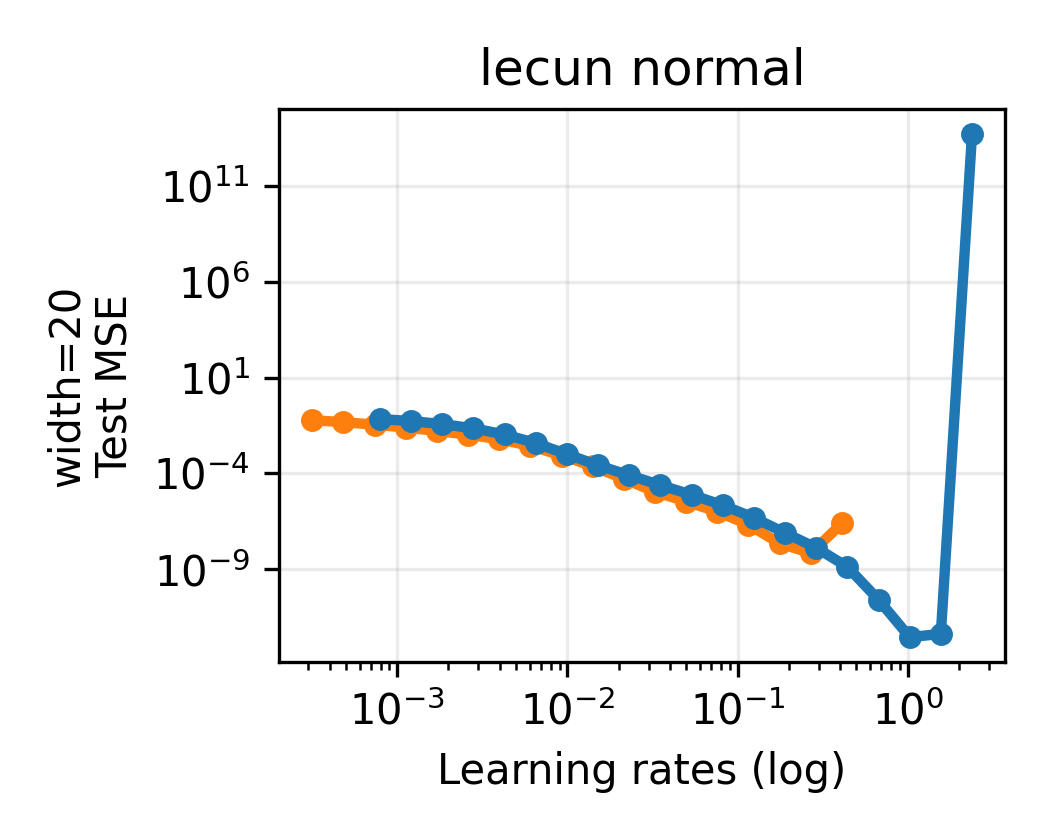
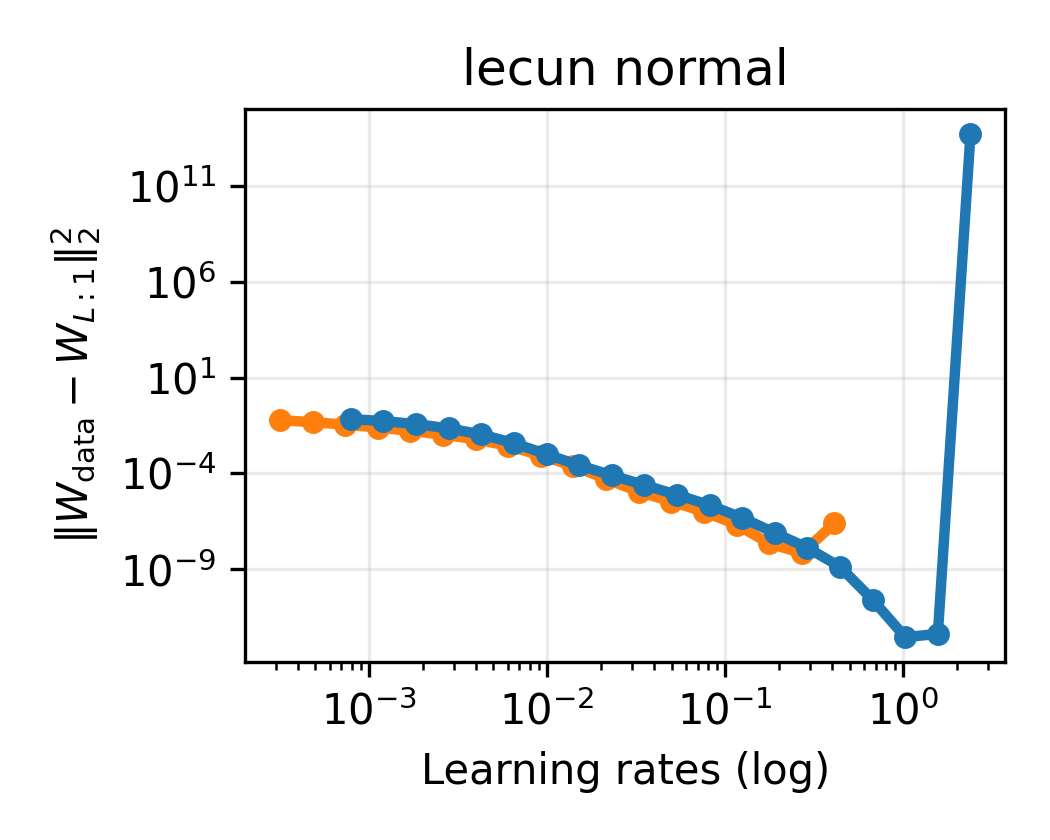
.

diff --git a/Figure2/figure2.py b/Figure2/figure2.py
@@ -739,7 +739,8 @@ for r, width in enumerate(widths_order):
         if r == 0:
             ax.set_title(init_name.replace("_", " "))
         if c == 0:
-            ax.set_ylabel(f"width={width}\nTest MSE")
+            ax.set_ylabel(r"$\|W_{\mathrm{data}} - W_{L:1}\|_2^2$")
+           # ax.set_ylabel(f"width={width}\nTest MSE")
         if r == len(widths_order) - 1:
             ax.set_xlabel("Training steps")
 
@@ -817,7 +818,8 @@ for r, width in enumerate(widths_order):
         if r == 0:
             ax.set_title(init_name.replace("_", " "))
         if c == 0:
-            ax.set_ylabel(f"width={width}\nTest MSE")
+            ax.set_ylabel(r"$\|W_{\mathrm{data}} - W_{L:1}\|_2^2$")
+            #ax.set_ylabel(f"width={width}\nTest MSE")
         if r == len(widths_order) - 1:
             ax.set_xlabel("Learning rates (log)")
 
@@ -877,7 +879,7 @@ for c, init_name in enumerate(inits_order):
     ax.grid(True, alpha=0.25)
     ax.axvline(x=20, linestyle='dashed', color='grey')
 
-axes[0].set_ylabel("Best Test MSE")
+axes[0].set_ylabel(r"$\|W_{\mathrm{data}} - W_{L:1}\|_2^2$") # set_ylabel("Best Test MSE")
 
 # single legend
 handles, labels = axes[0].get_legend_handles_labels()
